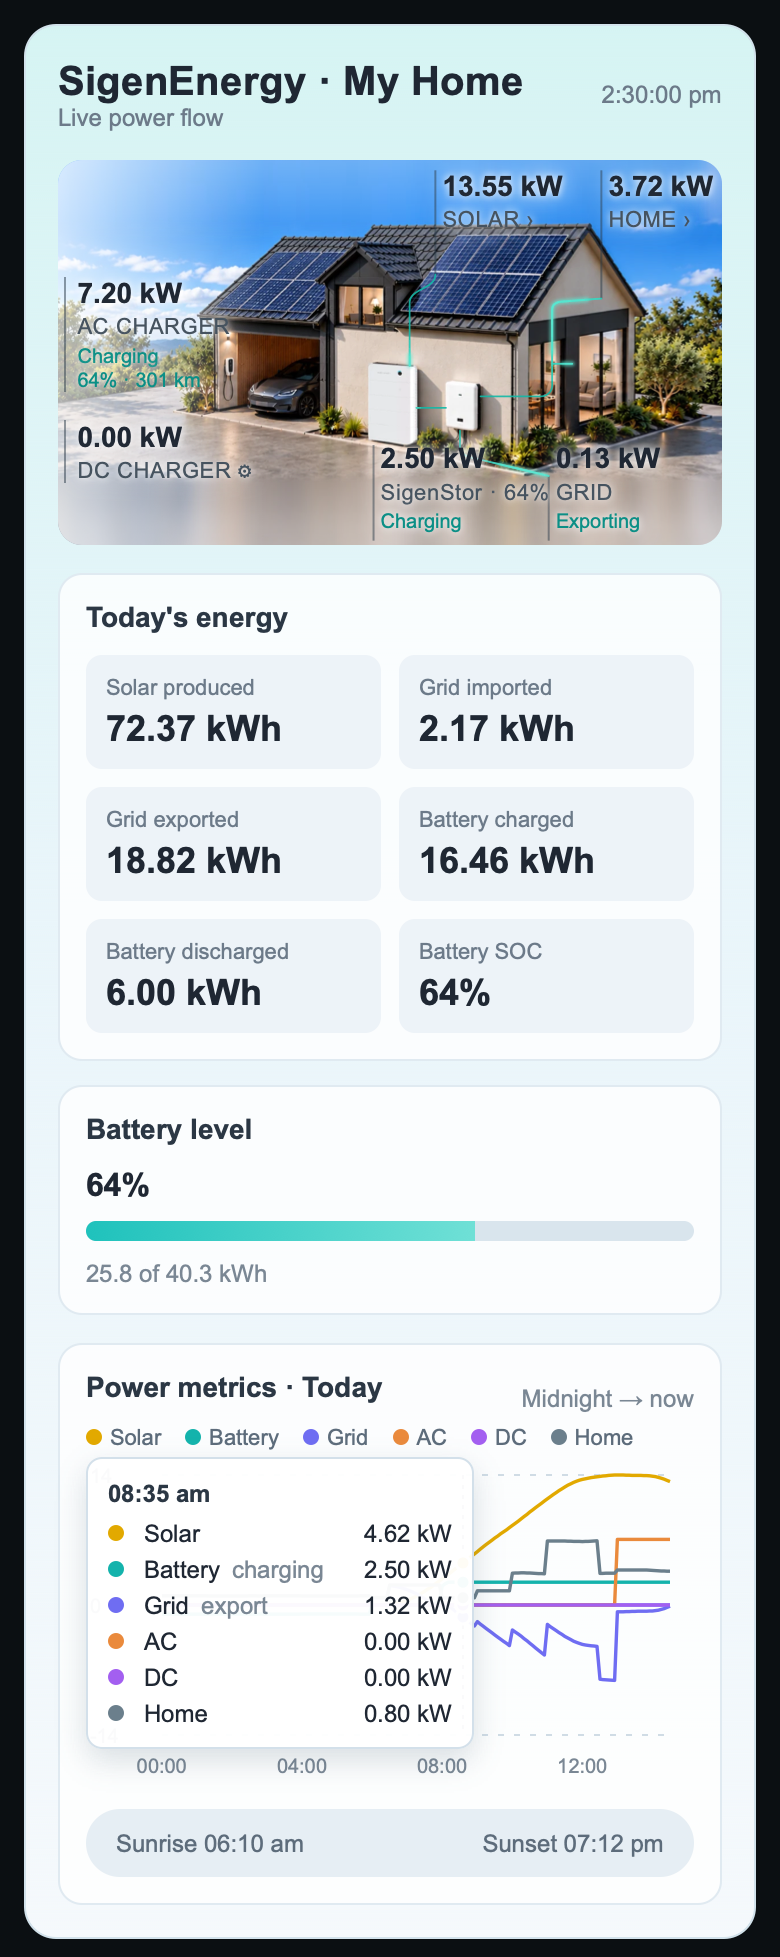
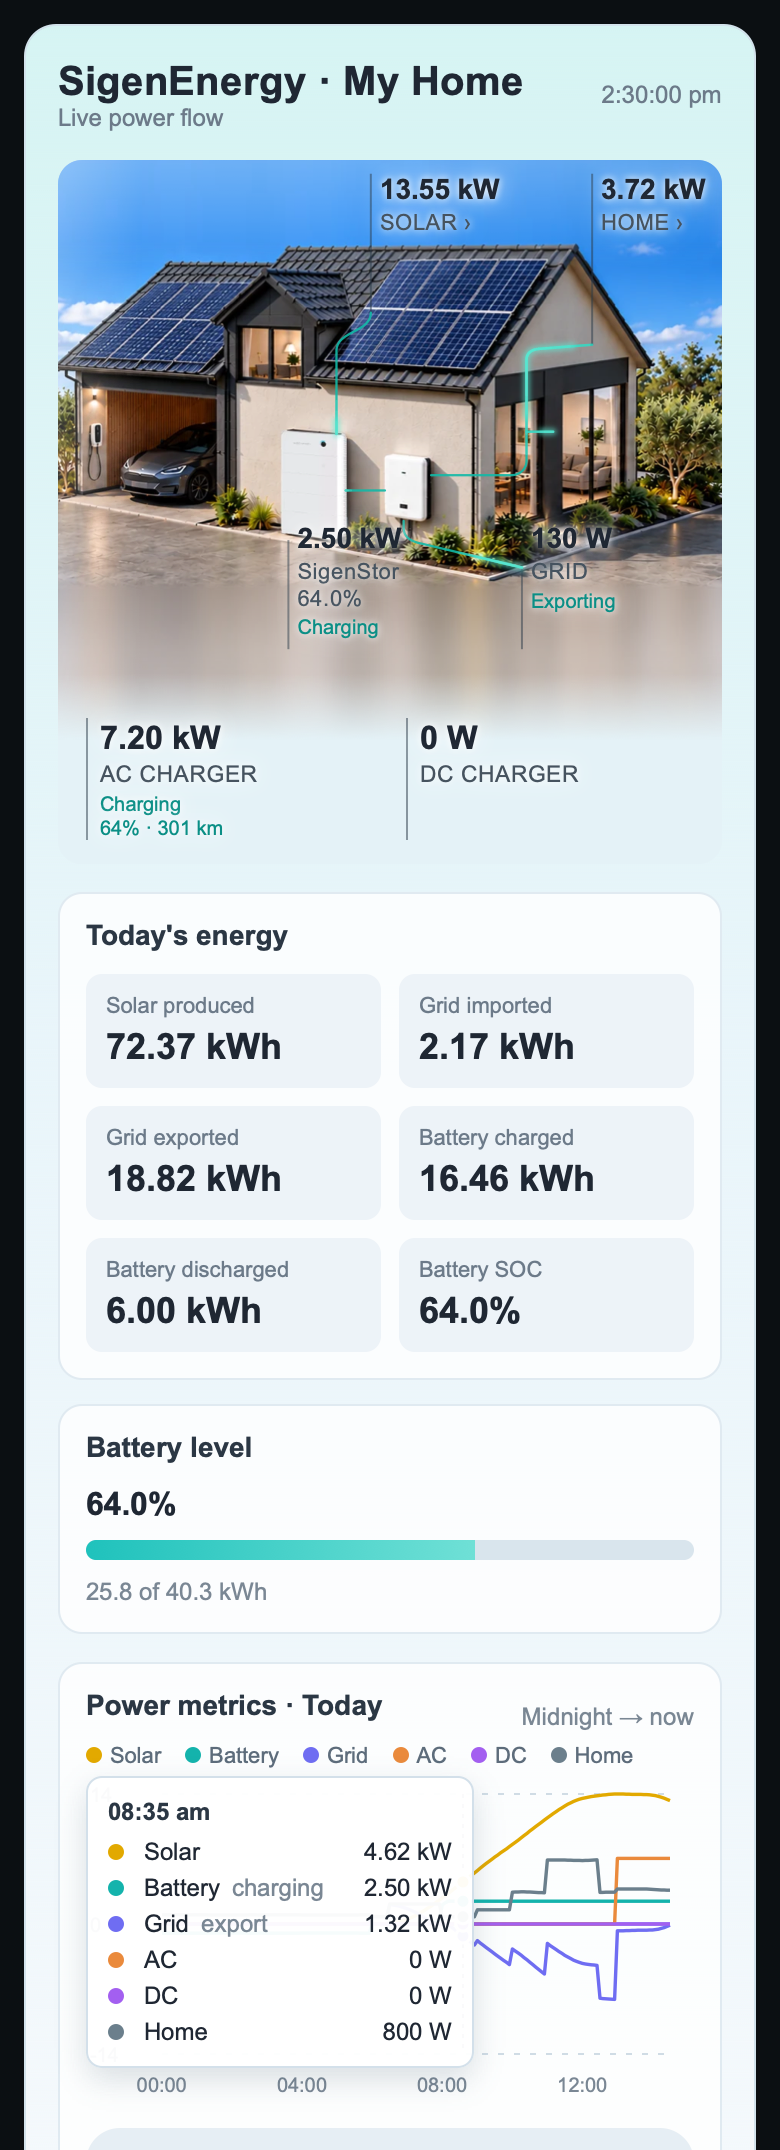
Show the house larger on a phone in portrait
On cards narrower than 560 px the photo is cropped to the house and the
readings around it, instead of keeping the garage side for the charger
readings, so the scene is shown about 30% larger. The AC and DC charger
readings move to a strip under the photo. In compact layouts the
SigenStor label and the phase mode line wrap so they stay inside the
cropped photo.

diff --git a/sigenergy-flow-card.js b/sigenergy-flow-card.js
@@ -5,8 +5,10 @@
 // the photo's edge rows, plus [bleed] more beyond the scene that shows when the card is taller than
 // the scene; its TOP and BOTTOM must equal top + bleed and bottom + bleed.
 // [keep] is the horizontal range (house and readings) that is never cropped as the card narrows.
+// Below [stackBelow] px the charger readings move under the photo and [keepStacked] (the house and the
+// other readings) is the protected range instead, so the house can be shown larger.
 const PHOTO = { width: 1676, height: 463, top: 100, bottom: 110, bleed: 100 };
-const SCENE = { width: PHOTO.width, height: PHOTO.top + PHOTO.height + PHOTO.bottom, keep: [160, 1320], scale: 1 };
+const SCENE = { width: PHOTO.width, height: PHOTO.top + PHOTO.height + PHOTO.bottom, keep: [160, 1320], keepStacked: [410, 1280], stackBelow: 560, scale: 1 };
 
 // Default entities for each `entities:` key in the card config, in priority order.
 // Plant sensors are the primary source (they combine every inverter and battery);
@@ -213,9 +215,12 @@ class SigenergyFlowCard extends HTMLElement {
       .node em:empty{display:none}
       .node em.stack span{display:block}.node em.stack span+span::before{content:none}
       .node em span+span::before{content:' · '}
+      .compact .lower .node+.node{max-width:calc(240px * var(--s))}.compact .lower em{white-space:normal}.compact .lower .sep{display:none}.compact .lower #soc{display:block}
       .compact .node em span{display:block}.compact .node em span+span::before{content:none}
       .sidecol{position:absolute;z-index:2;display:flex;flex-direction:column;justify-content:space-between;gap:max(14px,calc(24px * var(--s)));min-height:calc(184px * var(--s))}
       .lower{position:absolute;z-index:2;display:grid;align-items:start}.lower .node{position:static}
+      .strip{position:absolute;left:0;right:0;bottom:0;z-index:2;display:none;padding:22px 14px 12px;background:linear-gradient(transparent,var(--scene) 35%);--s:.6}.strip.on{display:block}
+      .strip .sidecol{position:static;flex-direction:row;min-height:0;gap:16px}.strip .sidecol .node{flex:1;min-width:0}
       .sidecol .node{position:static;border-left:1px solid var(--leader);padding-left:max(6px,calc(10px * var(--s)))}
       .node button{all:unset;cursor:pointer;display:block}.node button:focus-visible{outline:2px solid #71d3d1}
       .sidebar{display:flex;flex-direction:column;gap:12px}.panel{background:var(--panel);border:1px solid var(--panel-line);border-radius:12px;padding:13px}
@@ -274,14 +279,14 @@ class SigenergyFlowCard extends HTMLElement {
             ? `<button id="homeButton" title="Show home power usage"><strong id="home">—</strong><small>HOME ›</small></button>`
             : `<strong id="home">—</strong><small>HOME</small>`}</div>
         <div class="lower" style="${lowerStyle}">
-          <div class="node"><strong id="battery">—</strong><small>SigenStor · <span id="soc">—</span></small><em id="battStatus"></em></div>
+          <div class="node"><strong id="battery">—</strong><small>SigenStor<span class="sep"> · </span><span id="soc">—</span></small><em id="battStatus"></em></div>
           <div class="node"><strong id="grid">—</strong><small>GRID</small><em id="gridStatus"></em><em id="phaseMode"></em></div>
         </div>
         <div class="sidecol" style="${placeAt(READINGS.chargers)}">
           <div class="node" id="acNode"><strong id="ac">—</strong><small>AC CHARGER</small><em id="acSoc"></em><em id="acTotal"></em><em id="acLifetime" class="stack"></em></div>
           <div class="node" id="dcNode"><button id="dcButton" title="Adjust DC charging power limit"><strong id="dc">—</strong><small>DC CHARGER<span id="dcGear"> ⚙</span></small><em id="dcSoc"></em><em id="dcLifetime" class="stack"></em></button></div>
         </div>
-      </div></section><aside class="sidebar">
+      </div><div class="strip compact" id="strip"></div></section><aside class="sidebar">
         <section class="panel"><h3>Today's energy</h3><div class="stats">
           ${DAILY_TILES.map(([id, , label]) => `<button class="stat"><small>${label}</small><b id="${id}">—</b></button>`).join('')}<button class="stat" id="socStat"><small>Battery SOC</small><b id="daySoc">—</b></button>
         </div></section><section class="panel"><h3>Battery level</h3><button class="link" id="socLevel"><strong id="socLarge">—</strong><div class="socbar"><div class="socfill" id="socFill"></div></div></button><button class="link muted" id="capacity" title="Show stored energy today"><span id="capacityText"></span></button></section>
@@ -372,8 +377,10 @@ class SigenergyFlowCard extends HTMLElement {
         this._chartObserver.observe(this._id('pvChart'));
         this._chartObserver.observe(this._id('energyChart'));
         const scene = this._id('scene'), sidebar = this.root.querySelector('.sidebar');
-        scene.fit = sidebar.fit = () => this._fitScene();
+        const strip = this._id('strip');
+        scene.fit = sidebar.fit = strip.fit = () => this._fitScene();
         this._chartObserver.observe(scene);
+        this._chartObserver.observe(strip);
         this._chartObserver.observe(sidebar);
     }
     // The scene is shown at its preferred scale with the sides cropped; once the visible width reaches
@@ -383,9 +390,13 @@ class SigenergyFlowCard extends HTMLElement {
         const scene = this._id('scene'), plane = this._id('plane'), sidebar = this.root.querySelector('.sidebar');
         const width = scene.clientWidth;
         if (!width) return;
-        const [keepLeft, keepRight] = SCENE.keep, keepWidth = keepRight - keepLeft;
+        const stacked = width < SCENE.stackBelow, strip = this._id('strip'), chargers = this.root.querySelector('.sidecol');
+        if (stacked !== (chargers.parentNode === strip)) (stacked ? strip : plane).append(chargers);
+        strip.classList.toggle('on', stacked && !(this._id('acNode').hidden && this._id('dcNode').hidden));
+        const stripHeight = strip.classList.contains('on') ? strip.offsetHeight : 0;
+        const [keepLeft, keepRight] = stacked ? SCENE.keepStacked : SCENE.keep, keepWidth = keepRight - keepLeft;
         let scale = width / Math.min(SCENE.width, Math.max(keepWidth, width / SCENE.scale));
-        let height = SCENE.height * scale;
+        let height = SCENE.height * scale + stripHeight;
         if (sidebar.offsetTop === scene.offsetTop && sidebar.lastElementChild) {
             const sidebarHeight = sidebar.lastElementChild.offsetTop + sidebar.lastElementChild.offsetHeight - sidebar.firstElementChild.offsetTop;
             if (sidebarHeight > height) {
@@ -396,7 +407,7 @@ class SigenergyFlowCard extends HTMLElement {
         const visible = width / scale;
         const centre = Math.min(SCENE.width - visible / 2, Math.max(visible / 2, (keepLeft + keepRight) / 2));
         scene.style.height = `${height}px`;
-        Object.assign(plane.style, { width: `${SCENE.width * scale}px`, height: `${SCENE.height * scale}px`, left: `${-(centre - visible / 2) * scale}px`, top: `${(height - SCENE.height * scale) / 2}px` });
+        Object.assign(plane.style, { width: `${SCENE.width * scale}px`, height: `${SCENE.height * scale}px`, left: `${-(centre - visible / 2) * scale}px`, top: `${stacked ? 0 : (height - SCENE.height * scale) / 2}px` });
         plane.style.setProperty('--s', scale);
         plane.classList.toggle('compact', scale < .6);
     }

diff --git a/CHANGELOG.md b/CHANGELOG.md
@@ -13,6 +13,7 @@ Contributed by Justin (pull request 1), merged onto the photo scene and day/nigh
 - PV strings can be objects with their own entities. A string with none of its entities is hidden, the Total row uses the system PV sensors when present, and a Third-party PV row appears when those sensors exist.
 - Optional lines: `show_lifetime` (on by default) adds the AC charger's energy consumed and both chargers' lifetime energy charged and discharged; `show_phase_mode` (off by default) shows the phase power mode under GRID. The DC charger's gear icon is hidden without a limit entity.
 - Battery level is shown to one decimal.
+- On narrow cards (under 560 px, such as a phone in portrait) the photo is cropped to the house so it can be shown larger, and the AC and DC charger readings move to a strip under the photo.
 - The SigenStor and GRID readings are aligned at the top, whatever their number of lines, and sit slightly higher; the grid line and the two leaders follow.
 - Power readings pick their unit: W below 1 kW (for example 40 W), kW up to 1000 kW and MW above.
 - The Modbus utility scripts stay in the repository.
